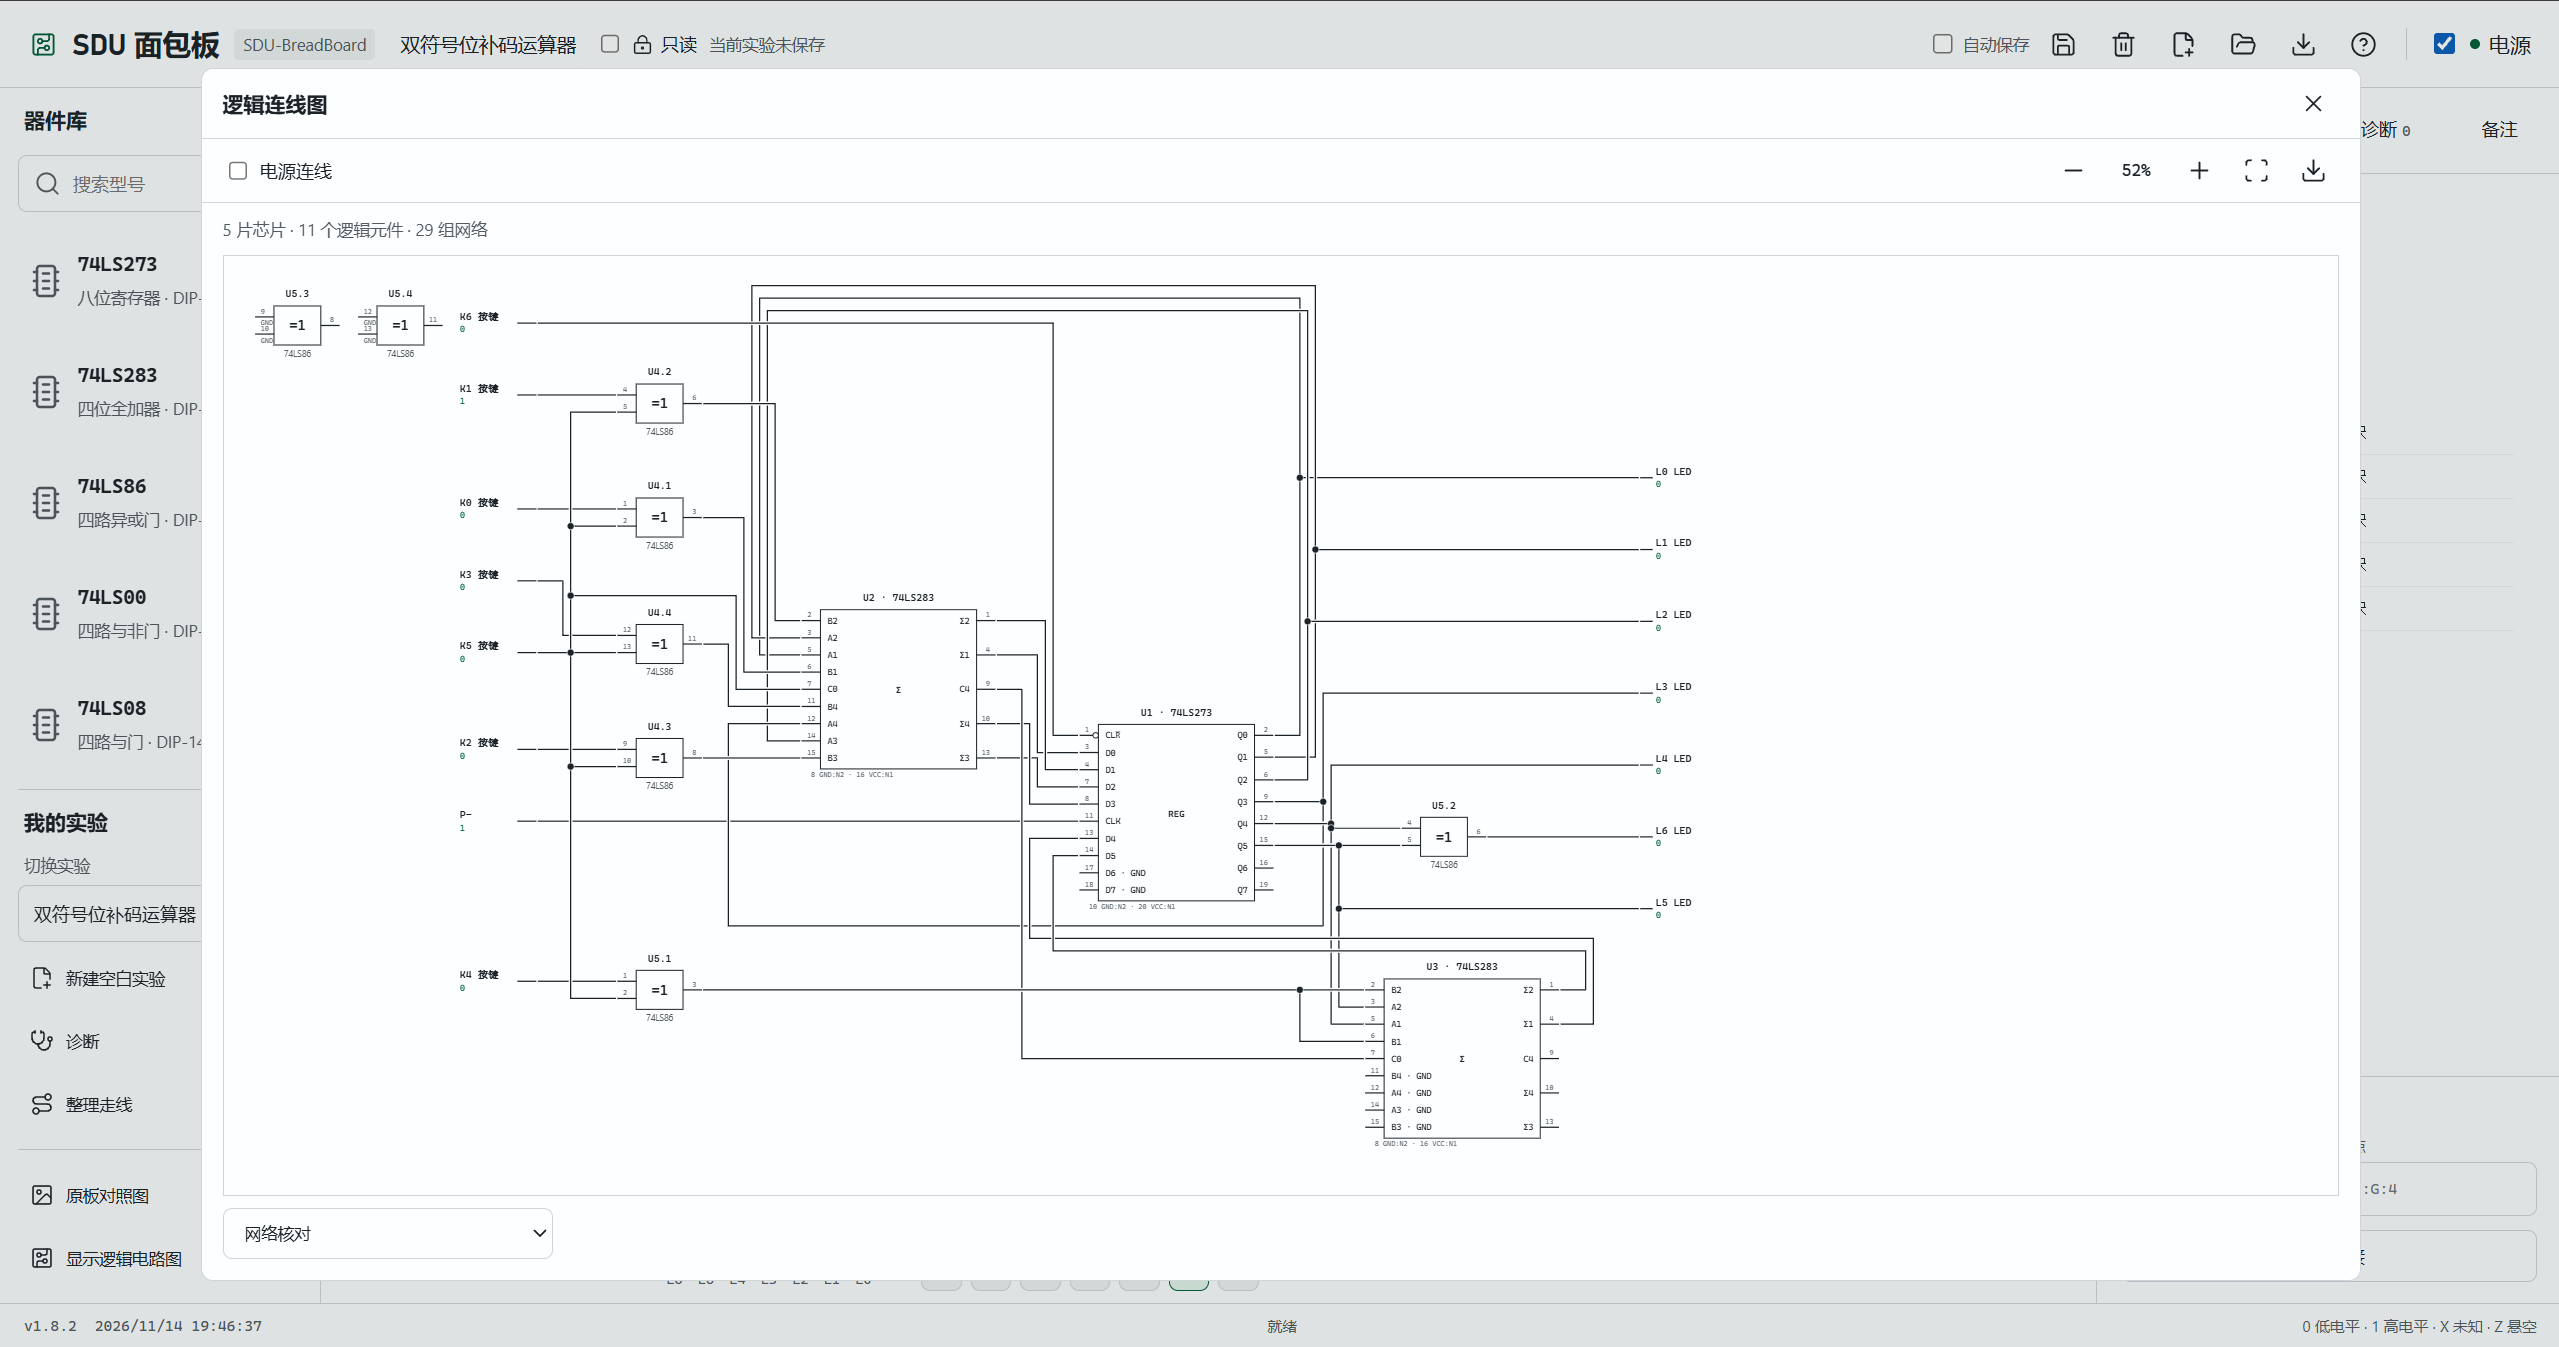
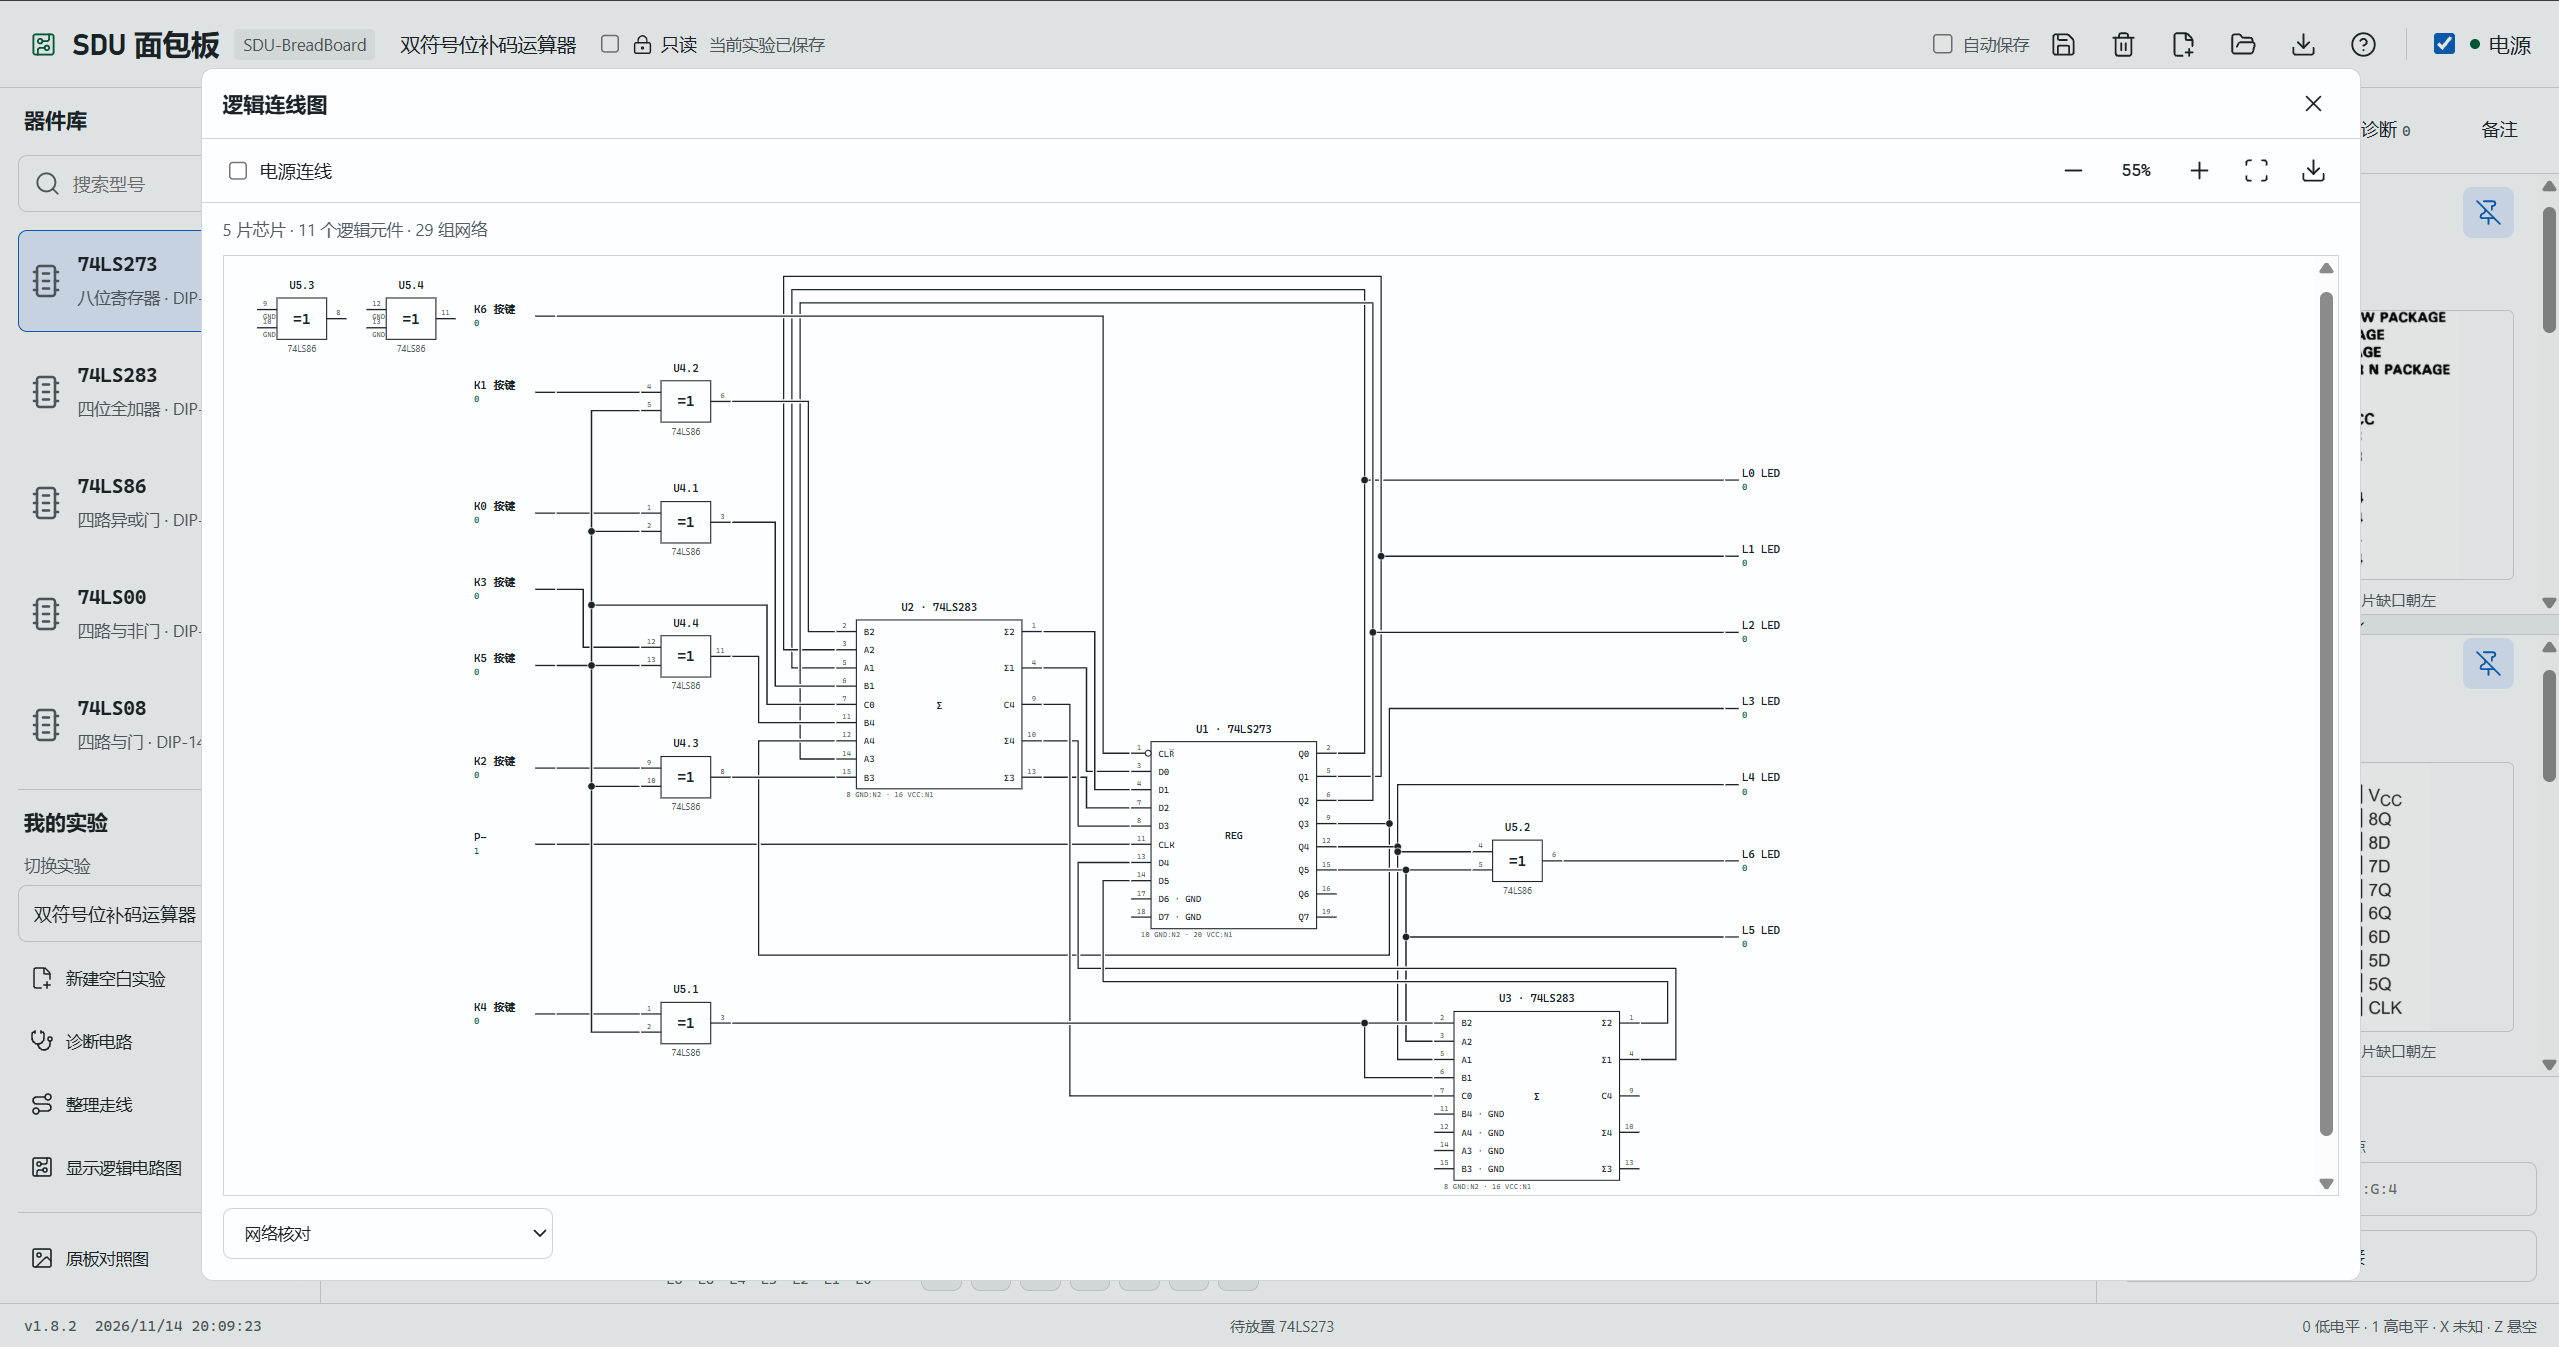
modified:   assets/screenshots/latest.png 	modified:   assets/screenshots/logic-diagram.png 	modified:   docs/chip-references.md 	modified:   docs/user-guide.md 	modified:   index.html 	modified:   tests/logic-diagram-browser.mjs

diff --git a/index.html b/index.html
@@ -36,10 +36,11 @@
                 <h2>我的实验</h2>
                 <label class="experiment-picker-label" for="experiment-picker">切换实验</label><select id="experiment-picker" aria-label="切换实验"></select>
                 <button id="new-experiment" class="preset-button"><i data-lucide="file-plus-2" aria-hidden="true"></i><span>新建空白实验</span></button>
-                <button id="diagnose-circuit" class="preset-button"><i data-lucide="stethoscope" aria-hidden="true"></i><span>诊断</span></button>
+                <button id="diagnose-circuit" class="preset-button"><i data-lucide="stethoscope" aria-hidden="true"></i><span>诊断电路</span></button>
                 <button id="arrange-wires" class="preset-button"><i data-lucide="route" aria-hidden="true"></i><span>整理走线</span></button>
+                <button id="view-logic-diagram" class="preset-button"><i data-lucide="circuit-board" aria-hidden="true"></i><span>显示逻辑电路图</span></button>
             </section>
-            <div class="library-footer"><a class="sidebar-action" href="assets/reference-board.jpg" target="_blank" rel="noopener"><i data-lucide="image" aria-hidden="true"></i><span>原板对照图</span></a><button id="view-logic-diagram" class="sidebar-action"><i data-lucide="circuit-board" aria-hidden="true"></i><span>显示逻辑电路图</span></button></div>
+            <div class="library-footer"><a class="sidebar-action" href="assets/reference-board.jpg" target="_blank" rel="noopener"><i data-lucide="image" aria-hidden="true"></i><span>原板对照图</span></a></div>
         </aside>
         <section class="workbench" aria-label="接线工作区">
             <div class="toolbar">
@@ -101,7 +102,7 @@
             <p>同列 A～E 相通，F～J 相通。第四块的输入与脉冲对应列以固定细线桥接上下五孔组，其余列分开。X、Y 各分为 1～17、19～41、43～59 三段，段与段之间分开；母线每五个孔后留一格空位。最右侧外侧两列从左到右为 GND、+5V，同列上下相通。输入输出板没有接线孔，输出只接最上块 A～E，输入和脉冲接第四块对应列的 A～J</p>
             <p>普通滚轮上下移动画布；按住 Ctrl 再滚动时，以鼠标位置为中心缩放。你也可以使用工具栏的缩放和适应宽度按钮</p>
             <p>选中芯片后可查看引脚图、脚号、电平和位置。点击图钉可同时固定多份资料，拖动分隔条或点击方向按钮可调整上下空间；资料只在“检查”页显示，未固定资料在取消选择后关闭。原厂图片的缺口朝上，画布里的芯片缺口朝左，请按脚号核对。端点名称 B1:G:3 表示从上往下第 2 块面包板 G 行第 3 列</p>
-            <p>标题旁的“只读”开关保护接线和备注，你仍可以调整输入、发脉冲、查看资料和导出实验。左侧“诊断”检查当前电路的供电、短路、驱动冲突、悬空输入与时序状态，不会发出脉冲或改变接线；“整理走线”在确认后调整路径，不改端点、线色和备注，也可以撤销</p>
+            <p>标题旁的“只读”开关保护接线和备注，你仍可以调整输入、发脉冲、查看资料和导出实验。左侧“诊断电路”检查当前电路的供电、短路、驱动冲突、悬空输入与时序状态，不会发出脉冲或改变接线；“整理走线”在确认后调整路径，不改端点、线色和备注，也可以撤销</p>
             <p>补码示例中，K0～K3 是数值位，K4 是符号位，K5 为 0 时加、1 时减。你把 K6 切到 0 再切回 1 即可清零。按住 P− 后松开，寄存器在恢复上升沿保存结果。L5、L4 是两个符号位，L6 指示溢出，所有 LED 均在已知高电平时点亮</p>
             <p>仿真采用理想数字逻辑，显示 0、1、X 未知、Z 悬空。导入、重新打开或结构撤销后，你需要给寄存器重新清零。电流、器件延迟、按键抖动和芯片损坏属于实物实验条件</p>
             <p>快捷键：Ctrl+Z 撤销，Ctrl+Shift+Z 重做，Delete 请求删除选中对象，Ctrl+S 只保存当前实验。你可以按住 Ctrl 多选器件和导线，在选择模式下拖动导线端点或转折点。自动保存默认关闭；有未保存内容时，关闭或刷新页面会显示离开确认，你选择留在页面后可以按 Ctrl+S 保存</p>

diff --git a/docs/user-guide.md b/docs/user-guide.md
@@ -24,7 +24,7 @@
 - 图钉支持同时固定多份型号资料或芯片详情，各份资料独立滚动，可拖动分隔条或使用方向按钮调整上下空间。固定资料只在“检查”页显示，切换标签后保留固定状态；再次点击对应图钉只取消这一份。未固定资料在取消选择后关闭，切换实验会清除固定列表，删除芯片只清除该芯片的固定详情
 - 普通滚轮上下移动画布；Ctrl＋滚轮以鼠标位置为中心缩放。控件、指示灯和面板有平滑过渡，仿真电平立即更新
 - 电路备注支持 Markdown 编辑与安全预览，包括表格、代码、列表和链接；随文件保存，内置补码示例包含完整操作与端口说明
-- “诊断”会检查悬空输入、错误供电、输出冲突、电源短接和不稳定反馈，发现问题时以 Toast 提示
+- “诊断电路”会检查悬空输入、错误供电、输出冲突、电源短接和不稳定反馈，发现问题时以 Toast 提示
 - 自动保存默认关闭。当你按 Ctrl+S 或点击保存图标后，程序只保存当前实验，其他实验各自保留未保存状态。JSON 用于导入导出，PNG 用于分享接线图片
 - 项目预置了双符号位补码运算器，其中保留两个符号位及六位反馈
 - 左侧“整理走线”使用 libavoid 正交避障引擎，统一安排拐角和线间距，并避开芯片。起点、终点、线色和备注保持不变，支持撤销。无可用路径时保留原接线并提示原因
@@ -33,7 +33,7 @@
 - 当你确认“整理走线”后，程序会在等待期间显示 Toast；完成或失败后，等待提示会自动关闭并显示结果
 - 选择“45°走线”后，程序先生成横竖主路径，再将局部转角处理为短斜线。单段斜角横纵各最多一个孔距，避开芯片，相邻斜角之间保留直线
 - 标题旁的“只读”开关会保护接线、芯片、显示位数和备注；输入、脉冲、引脚查看及文件导出仍可使用
-- “诊断”覆盖了电源脚、输入悬空或未知、驱动冲突、短路、OC 上拉及离散时序状态，并依据当前接线逐片列出工作条件。加法器示例比对属于独立的开发测试
+- “诊断电路”覆盖了电源脚、输入悬空或未知、驱动冲突、短路、OC 上拉及离散时序状态，并依据当前接线逐片列出工作条件。加法器示例比对属于独立的开发测试
 - 原有七种芯片使用 TI 引脚图，新增芯片使用文档中的引脚图和逻辑符号，你可以先查看图片，再核对实时电平和孔位
 
 ## 使用步骤

diff --git a/docs/chip-references.md b/docs/chip-references.md
@@ -16,6 +16,6 @@
 
 ## 核对当前实验
 
-当你点击左侧“诊断”后，右侧面板会按芯片列出当前电路的供电、输入、驱动冲突、短路与时序状态
+当你点击左侧“诊断电路”后，右侧面板会按芯片列出当前电路的供电、输入、驱动冲突、短路与时序状态
 
 输入输出板上的细线标出了板内固定连接，可插拔导线则连接在面包板插孔上。K、P 信号接第四块面包板对应列的 A～J，上下五孔组通过细线桥接，L 信号只接最上块对应列的 A～E。程序按这一连通关系检查接线，X、Y 母线与普通五孔列分别连接
